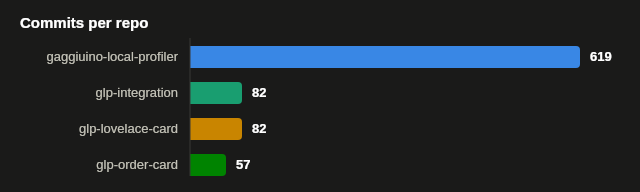
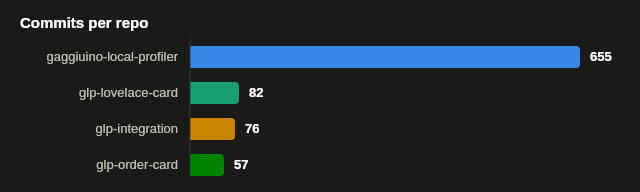
Revert screenshots.mjs and dev-stats changes from this chore PR (#523)
The chore run went beyond refreshing screenshots:

- scripts/screenshots.mjs was changed to skip the machine-comparison
  screenshot when the card is not visible, instead of finding out why it
  is not rendering. That converts a loud failure into a silent skip, so
  analytics-machines.png and flavor-wheel.png would stay stale unnoticed.
  The two missing screenshots are tracked separately.
- dev-stats were regenerated from origin/main, which has 40 fewer commits
  than dev. The result lowered every published figure in DEVELOPMENT.md
  (655 -> 619 commits, 870 -> 840 combined) — a regression in public docs,
  not a refresh. dev-stats belong in the release run, computed from the
  branch that actually carries the history.

What remains in this PR: the five screenshots that regenerated cleanly.

diff --git a/DEVELOPMENT.md b/DEVELOPMENT.md
@@ -8,15 +8,15 @@ The GLP ecosystem (this app + 3 companion repos) has been in development since *
 
 | Repo | First commit | Last commit | Commits | Claude co-authored |
 |---|---|---|---|---|
-| gaggiuino-local-profiler | 2026-05-20 | 2026-07-26 | 619 | 493 (80%) |
-| glp-integration | 2026-05-22 | 2026-07-26 | 82 | 61 (74%) |
+| gaggiuino-local-profiler | 2026-05-20 | 2026-07-26 | 655 | 506 (77%) |
+| glp-integration | 2026-05-22 | 2026-07-14 | 76 | 61 (80%) |
 | glp-lovelace-card | 2026-05-24 | 2026-07-26 | 82 | 70 (85%) |
 | glp-order-card | 2026-05-25 | 2026-07-26 | 57 | 46 (81%) |
-| **Combined** | **2026-05-20** | **2026-07-26** | **840** | **670 (80%)** |
+| **Combined** | **2026-05-20** | **2026-07-26** | **870** | **683 (79%)** |
 
 ![Commits per repo](docs/dev-stats/commits-per-repo.png)
 
-Combined line changes (insertions + deletions across all commits): **267.211**, of which **204.315** landed in Claude-co-authored commits.
+Combined line changes (insertions + deletions across all commits): **269.521**, of which **205.431** landed in Claude-co-authored commits.
 
 Commits without a Claude co-author line are presumed human-only (manual fixes, merges, config tweaks) — not independently verified.
 
@@ -25,11 +25,10 @@ Commits without a Claude co-author line are presumed human-only (manual fixes, m
 | Model | Commits |
 |---|---|
 | Claude Sonnet 4.6 | 348 |
-| Claude Sonnet 5 | 223 |
+| Claude Sonnet 5 | 237 |
 | Claude Opus 4.8 | 47 |
 | Claude Fable 5 | 40 |
 | Claude | 11 |
-| Claude Haiku 4.5 | 1 |
 
 ![Claude model breakdown by commits](docs/dev-stats/model-breakdown.png)
 
@@ -39,7 +38,7 @@ The exact co-author string varies by era as model names changed over the project
 
 This is **not** measured token usage or an actual invoice. It multiplies changed lines (insertions + deletions) in Claude-co-authored commits by an assumed 25 tokens/line (covers the conversation and planning overhead around a diff, not just the diff bytes), then applies the price table in `scripts/dev-stats.pricing.json` — which ships with every price set to `null` until you fill in your own plan/API rates.
 
-**Estimated cost: ~$31.15** across 200.610 priced lines (+ 3.707 lines from unpriced models, excluded from this total).
+**Estimated cost: ~$31.11** across 202.168 priced lines (+ 3.264 lines from unpriced models, excluded from this total).
 
 ---
 *This file is generated. Do not hand-edit — re-run `node scripts/dev-stats.mjs` instead.*
